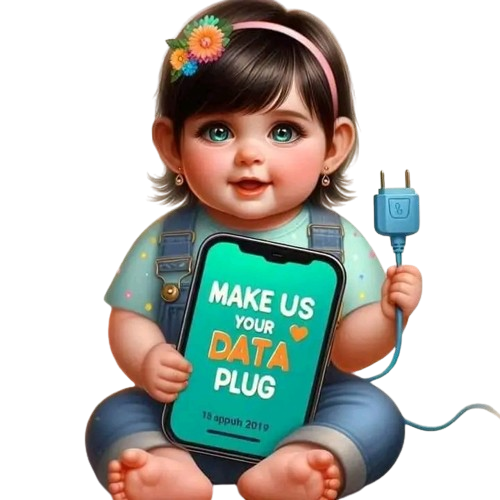
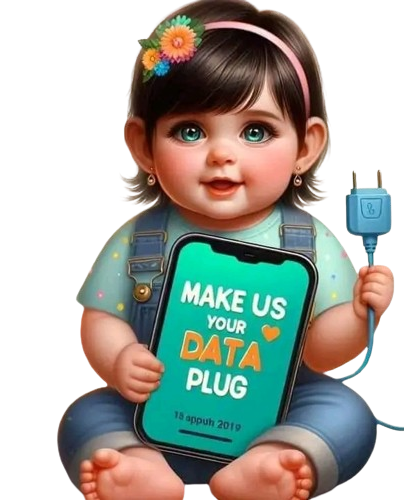
add somthing in the hompage

diff --git a/src/pages/dashboard/servicecard/Servicecard.css b/src/pages/dashboard/servicecard/Servicecard.css
@@ -132,8 +132,7 @@
   .card2contents img{
     height:auto ;
     width: 100%;
-    transform: scale(1.4); /* Scale the image by a factor of 1.5 (adjust as needed) */
-    margin-left: 5%;
+    transform: scale(1.6); /* Scale the image by a factor of 1.5 (adjust as needed) */
 
 
   }
